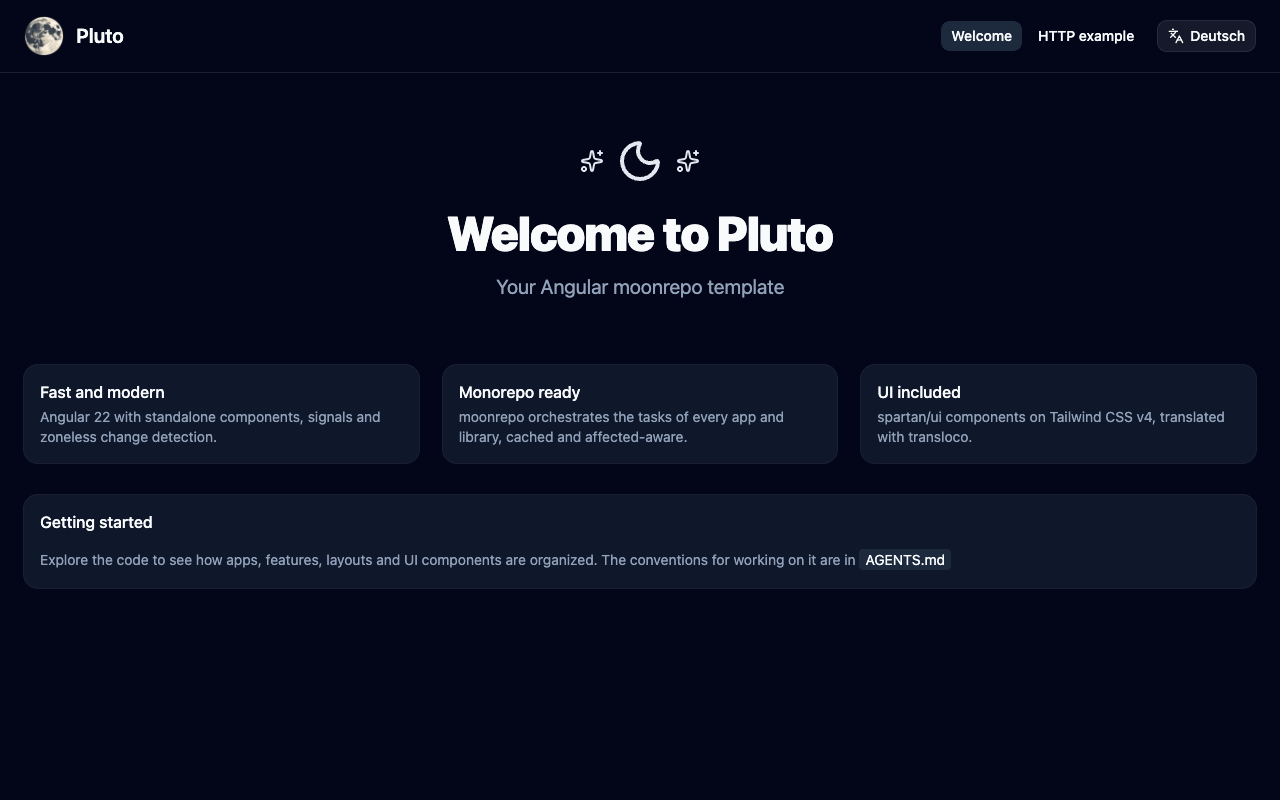
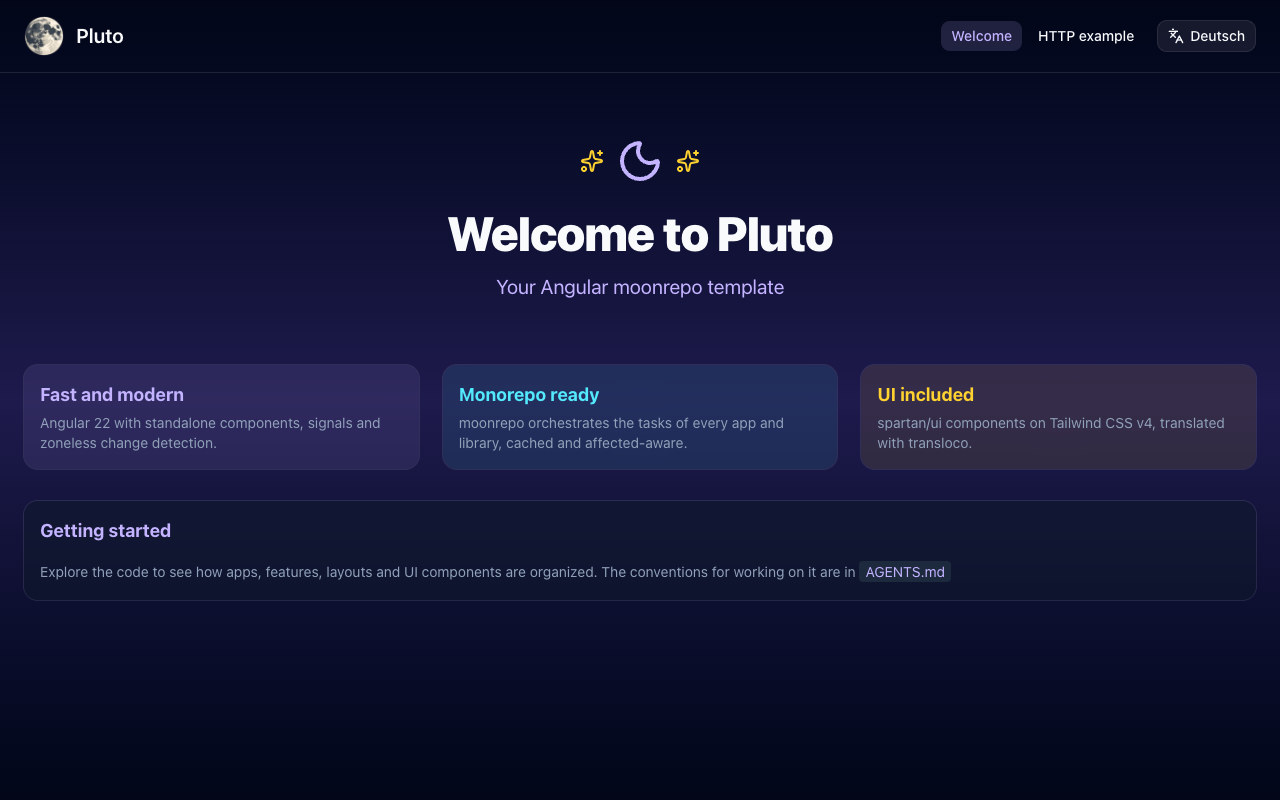
style: Bring back the space colors as theme tokens

diff --git a/libs/feature-welcome/src/welcome.component.html b/libs/feature-welcome/src/welcome.component.html
@@ -1,35 +1,41 @@
 <header class="py-16 text-center">
-	<div class="mb-6 flex items-center justify-center gap-3 text-primary">
-		<ng-icon name="lucideSparkles" class="text-2xl" />
-		<ng-icon name="lucideMoon" class="text-5xl" />
-		<ng-icon name="lucideSparkles" class="text-2xl" />
+	<div class="mb-6 flex items-center justify-center gap-3">
+		<ng-icon name="lucideSparkles" class="text-2xl text-star" />
+		<ng-icon name="lucideMoon" class="text-5xl text-nebula" />
+		<ng-icon name="lucideSparkles" class="text-2xl text-star" />
 	</div>
 	<h1 class="text-5xl font-black tracking-tight text-balance">
 		{{ "feature.welcome.title" | transloco }}
 	</h1>
-	<p class="mt-4 text-xl text-muted-foreground">
+	<p class="mt-4 text-xl text-nebula">
 		{{ "feature.welcome.subtitle" | transloco }}
 	</p>
 </header>
 
 <section class="grid gap-6 pb-8 md:grid-cols-3">
-	@for (card of cards; track card) {
-		<section hlmCard>
+	@for (card of cards; track card.key) {
+		<section hlmCard class="backdrop-blur-sm transition-colors" [class]="card.tint">
 			<div hlmCardHeader>
-				<h2 hlmCardTitle>{{ "feature.welcome." + card + ".title" | transloco }}</h2>
-				<p hlmCardDescription>{{ "feature.welcome." + card + ".text" | transloco }}</p>
+				<h2 hlmCardTitle class="text-lg font-bold" [class]="card.title">
+					{{ "feature.welcome." + card.key + ".title" | transloco }}
+				</h2>
+				<p hlmCardDescription>
+					{{ "feature.welcome." + card.key + ".text" | transloco }}
+				</p>
 			</div>
 		</section>
 	}
 </section>
 
-<section hlmCard class="mb-16">
+<section hlmCard class="mb-16 backdrop-blur-sm">
 	<div hlmCardHeader>
-		<h2 hlmCardTitle>{{ "feature.welcome.getting-started.title" | transloco }}</h2>
+		<h2 hlmCardTitle class="text-lg font-bold text-nebula">
+			{{ "feature.welcome.getting-started.title" | transloco }}
+		</h2>
 	</div>
 	<p hlmCardContent class="leading-relaxed text-muted-foreground">
 		{{ "feature.welcome.getting-started.text" | transloco }}
-		<code class="rounded bg-muted px-1.5 py-0.5 font-mono text-sm text-foreground"
+		<code class="rounded bg-muted px-1.5 py-0.5 font-mono text-sm text-nebula"
 			>AGENTS.md</code
 		>
 	</p>

diff --git a/libs/app-theme/tailwind.css b/libs/app-theme/tailwind.css
@@ -89,11 +89,44 @@
 	--sidebar-ring: oklch(0.551 0.027 264.364);
 }
 
+/*
+ * Pluto's own palette on top of the spartan theme above. Recolor the app here: violet
+ * primary, a deep space gradient behind every page, and three accents for highlights.
+ * Templates use them as `text-nebula`, `bg-comet/10`, `border-star/30`.
+ */
+:root {
+	--primary: oklch(0.541 0.281 293.009);
+	--primary-foreground: oklch(0.984 0.003 247.858);
+	--ring: oklch(0.606 0.25 292.717);
+	--space: oklch(0.962 0.018 272.314);
+	--nebula: oklch(0.541 0.281 293.009);
+	--comet: oklch(0.609 0.126 221.723);
+	--star: oklch(0.666 0.179 58.318);
+}
+
+:root.dark {
+	--card: oklch(0.208 0.042 265.755 / 60%);
+	--primary: oklch(0.811 0.111 293.571);
+	--primary-foreground: oklch(0.129 0.042 264.695);
+	--ring: oklch(0.606 0.25 292.717);
+	--space: oklch(0.257 0.09 281.288);
+	--nebula: oklch(0.811 0.111 293.571);
+	--comet: oklch(0.865 0.127 207.078);
+	--star: oklch(0.879 0.169 91.605);
+}
+
+@theme inline {
+	--color-space: var(--space);
+	--color-nebula: var(--nebula);
+	--color-comet: var(--comet);
+	--color-star: var(--star);
+}
+
 @layer base {
 	* {
 		@apply border-border outline-ring/50;
 	}
 	body {
-		@apply bg-background text-foreground;
+		@apply min-h-dvh bg-background bg-linear-to-b from-background via-space to-background bg-fixed text-foreground antialiased;
 	}
 }

diff --git a/libs/feature-welcome/src/welcome.component.ts b/libs/feature-welcome/src/welcome.component.ts
@@ -29,6 +29,18 @@ import {
 	providers: [provideIcons({ lucideMoon, lucideSparkles })],
 })
 export class WelcomeFeature {
-	/** Translation key segments of the feature cards. */
-	protected readonly cards = ['modern', 'monorepo', 'ui'] as const
+	/** The feature cards: translation key segment and the accent that tints the card. */
+	protected readonly cards = [
+		{
+			key: 'modern',
+			tint: 'border-nebula/25 bg-nebula/10 hover:border-nebula/50',
+			title: 'text-nebula',
+		},
+		{
+			key: 'monorepo',
+			tint: 'border-comet/25 bg-comet/10 hover:border-comet/50',
+			title: 'text-comet',
+		},
+		{ key: 'ui', tint: 'border-star/25 bg-star/10 hover:border-star/50', title: 'text-star' },
+	] as const
 }

diff --git a/libs/feature-example/src/example.component.html b/libs/feature-example/src/example.component.html
@@ -9,7 +9,7 @@
 			<h2 hlmCardTitle>{{ "feature.example.posts.title" | transloco }}</h2>
 			<p hlmCardDescription>
 				{{ "feature.example.posts.text" | transloco }}
-				<code class="font-mono text-foreground">httpResource()</code>
+				<code class="font-mono text-comet">httpResource()</code>
 			</p>
 		</div>
 

diff --git a/libs/feature-not-found/src/not-found.component.html b/libs/feature-not-found/src/not-found.component.html
@@ -1,5 +1,5 @@
 <div class="flex min-h-dvh flex-col items-center justify-center px-6 text-center">
-	<h1 class="text-9xl font-black text-primary">404</h1>
+	<h1 class="text-9xl font-black text-nebula">404</h1>
 
 	<p class="mt-4 max-w-xl text-xl text-muted-foreground">
 		{{ "feature.not-found.text" | transloco }}

diff --git a/libs/app-layout/src/main/main.component.html b/libs/app-layout/src/main/main.component.html
@@ -14,7 +14,7 @@
 					hlmBtn
 					variant="ghost"
 					[routerLink]="item.href"
-					routerLinkActive="bg-muted text-foreground"
+					routerLinkActive="bg-nebula/15 text-nebula"
 					ariaCurrentWhenActive="page"
 				>
 					{{ item.label | transloco }}
